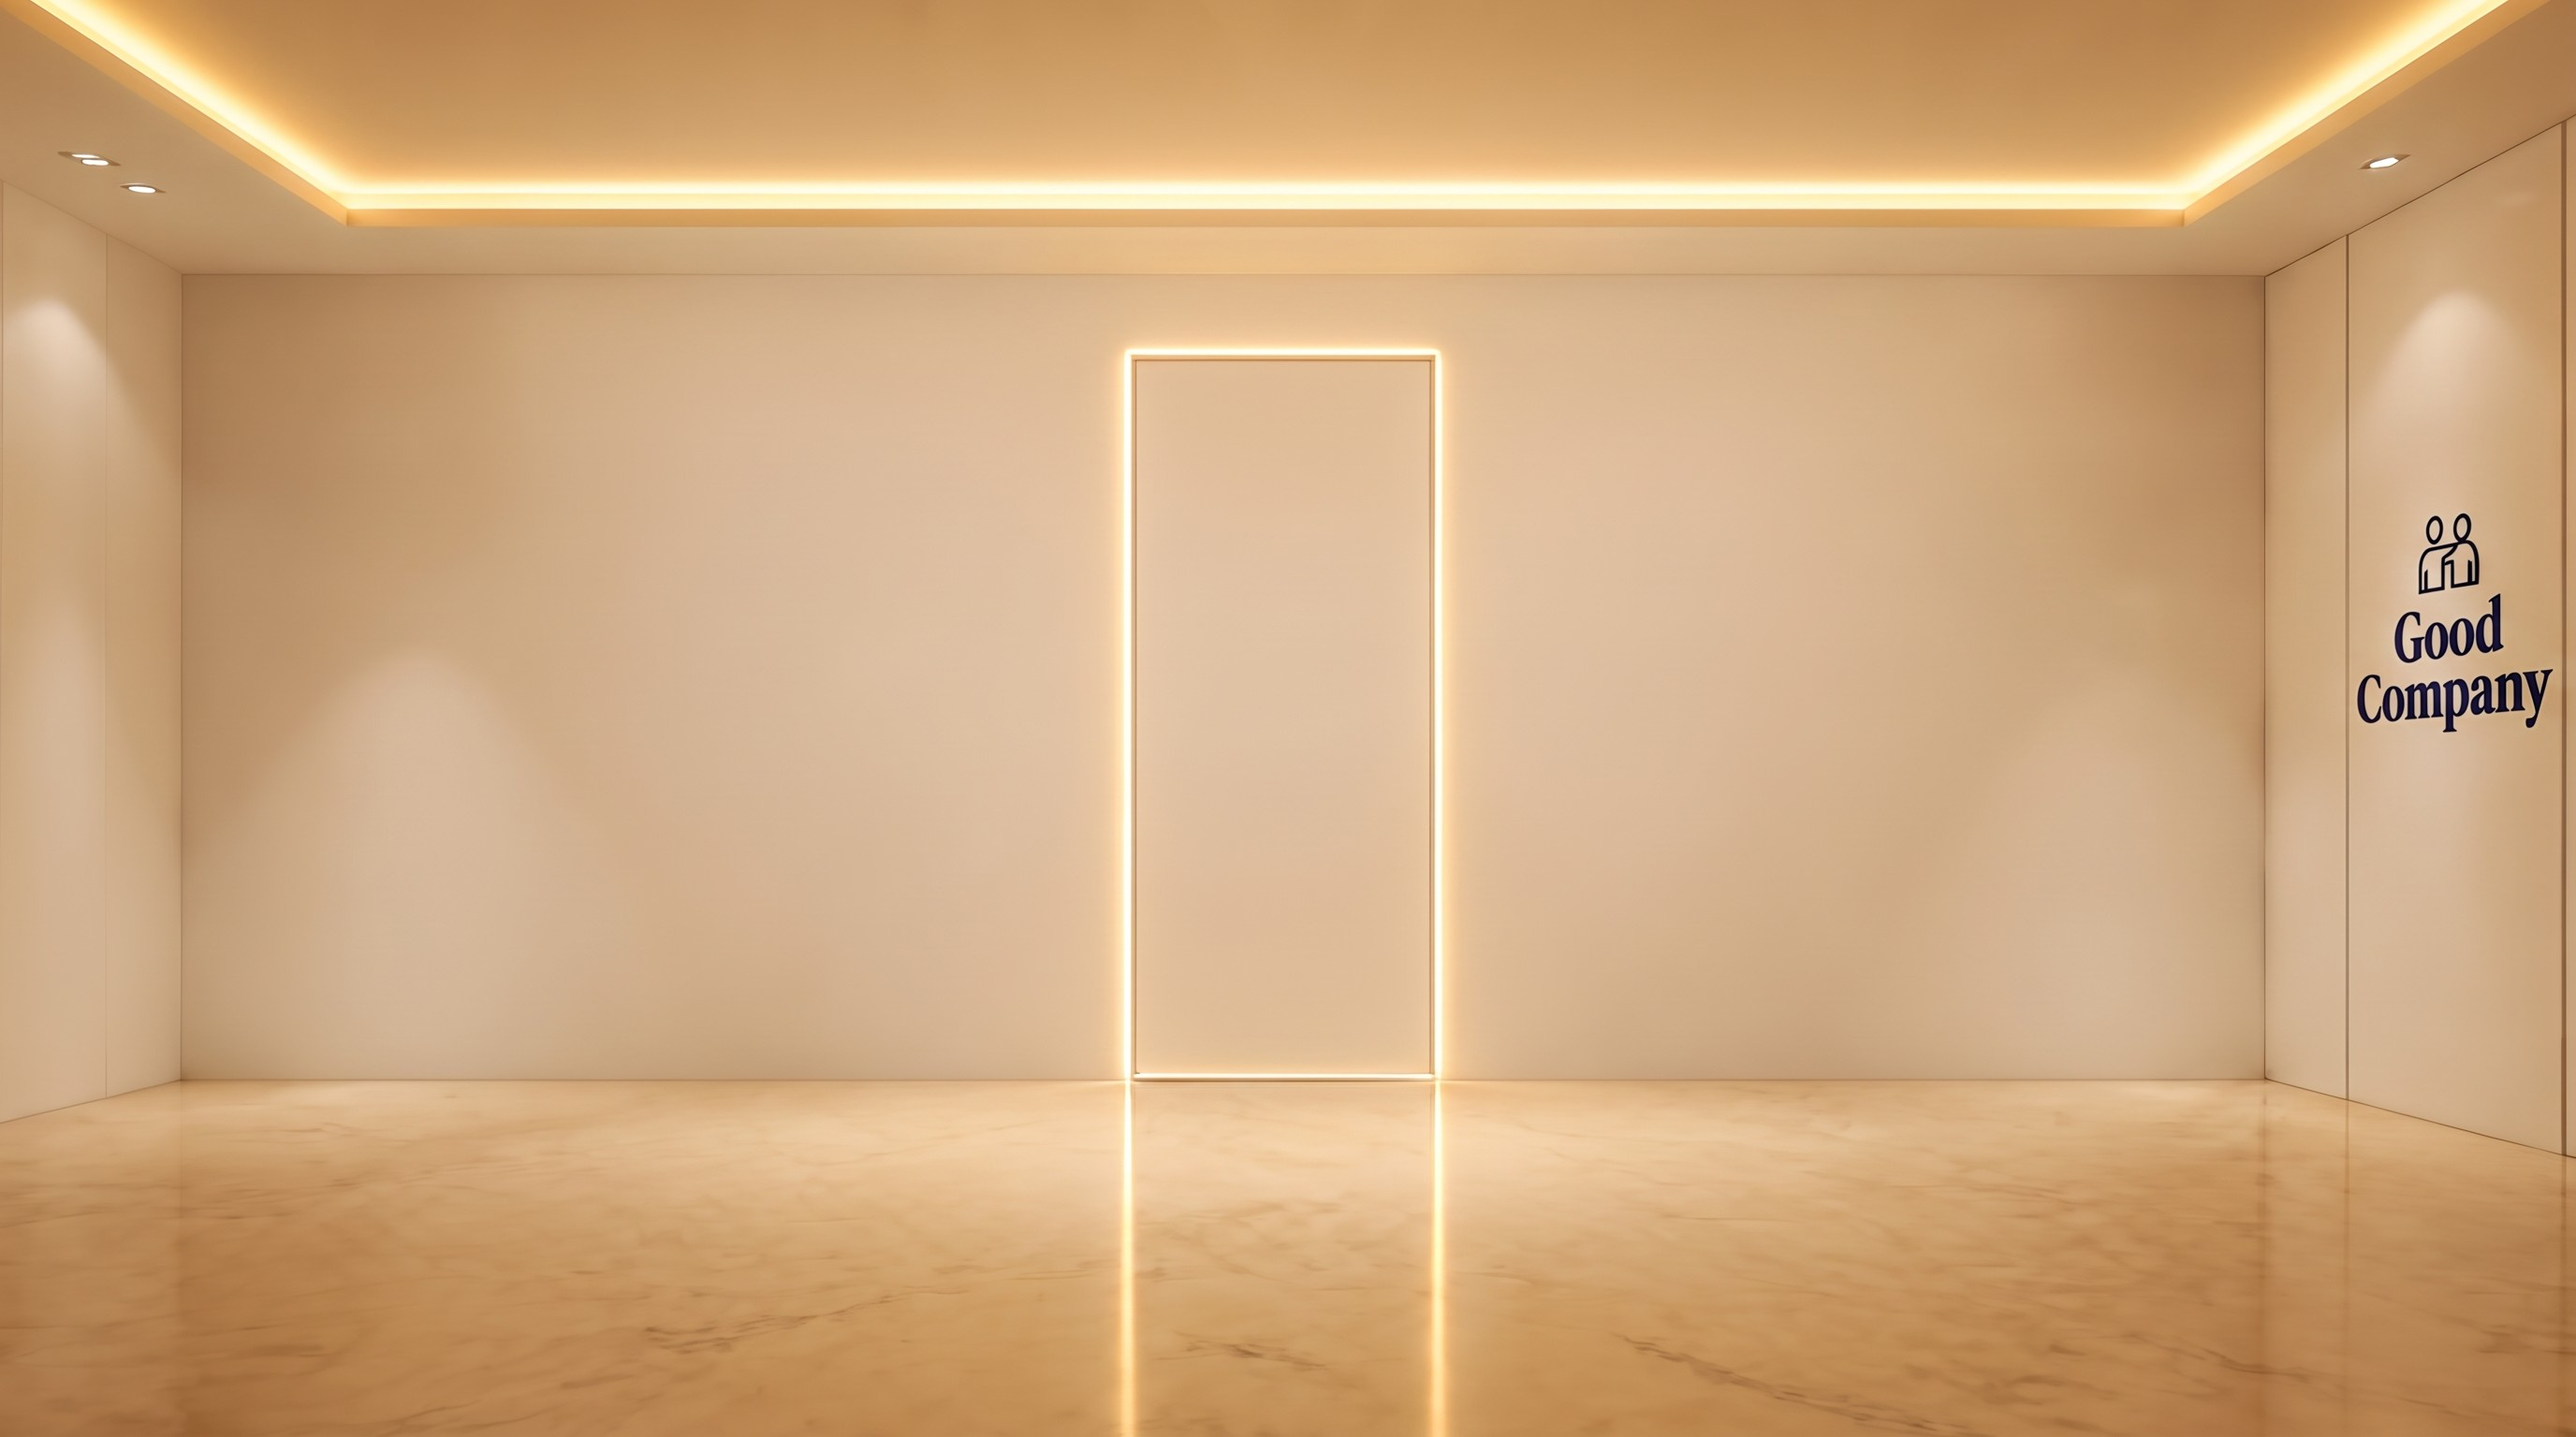
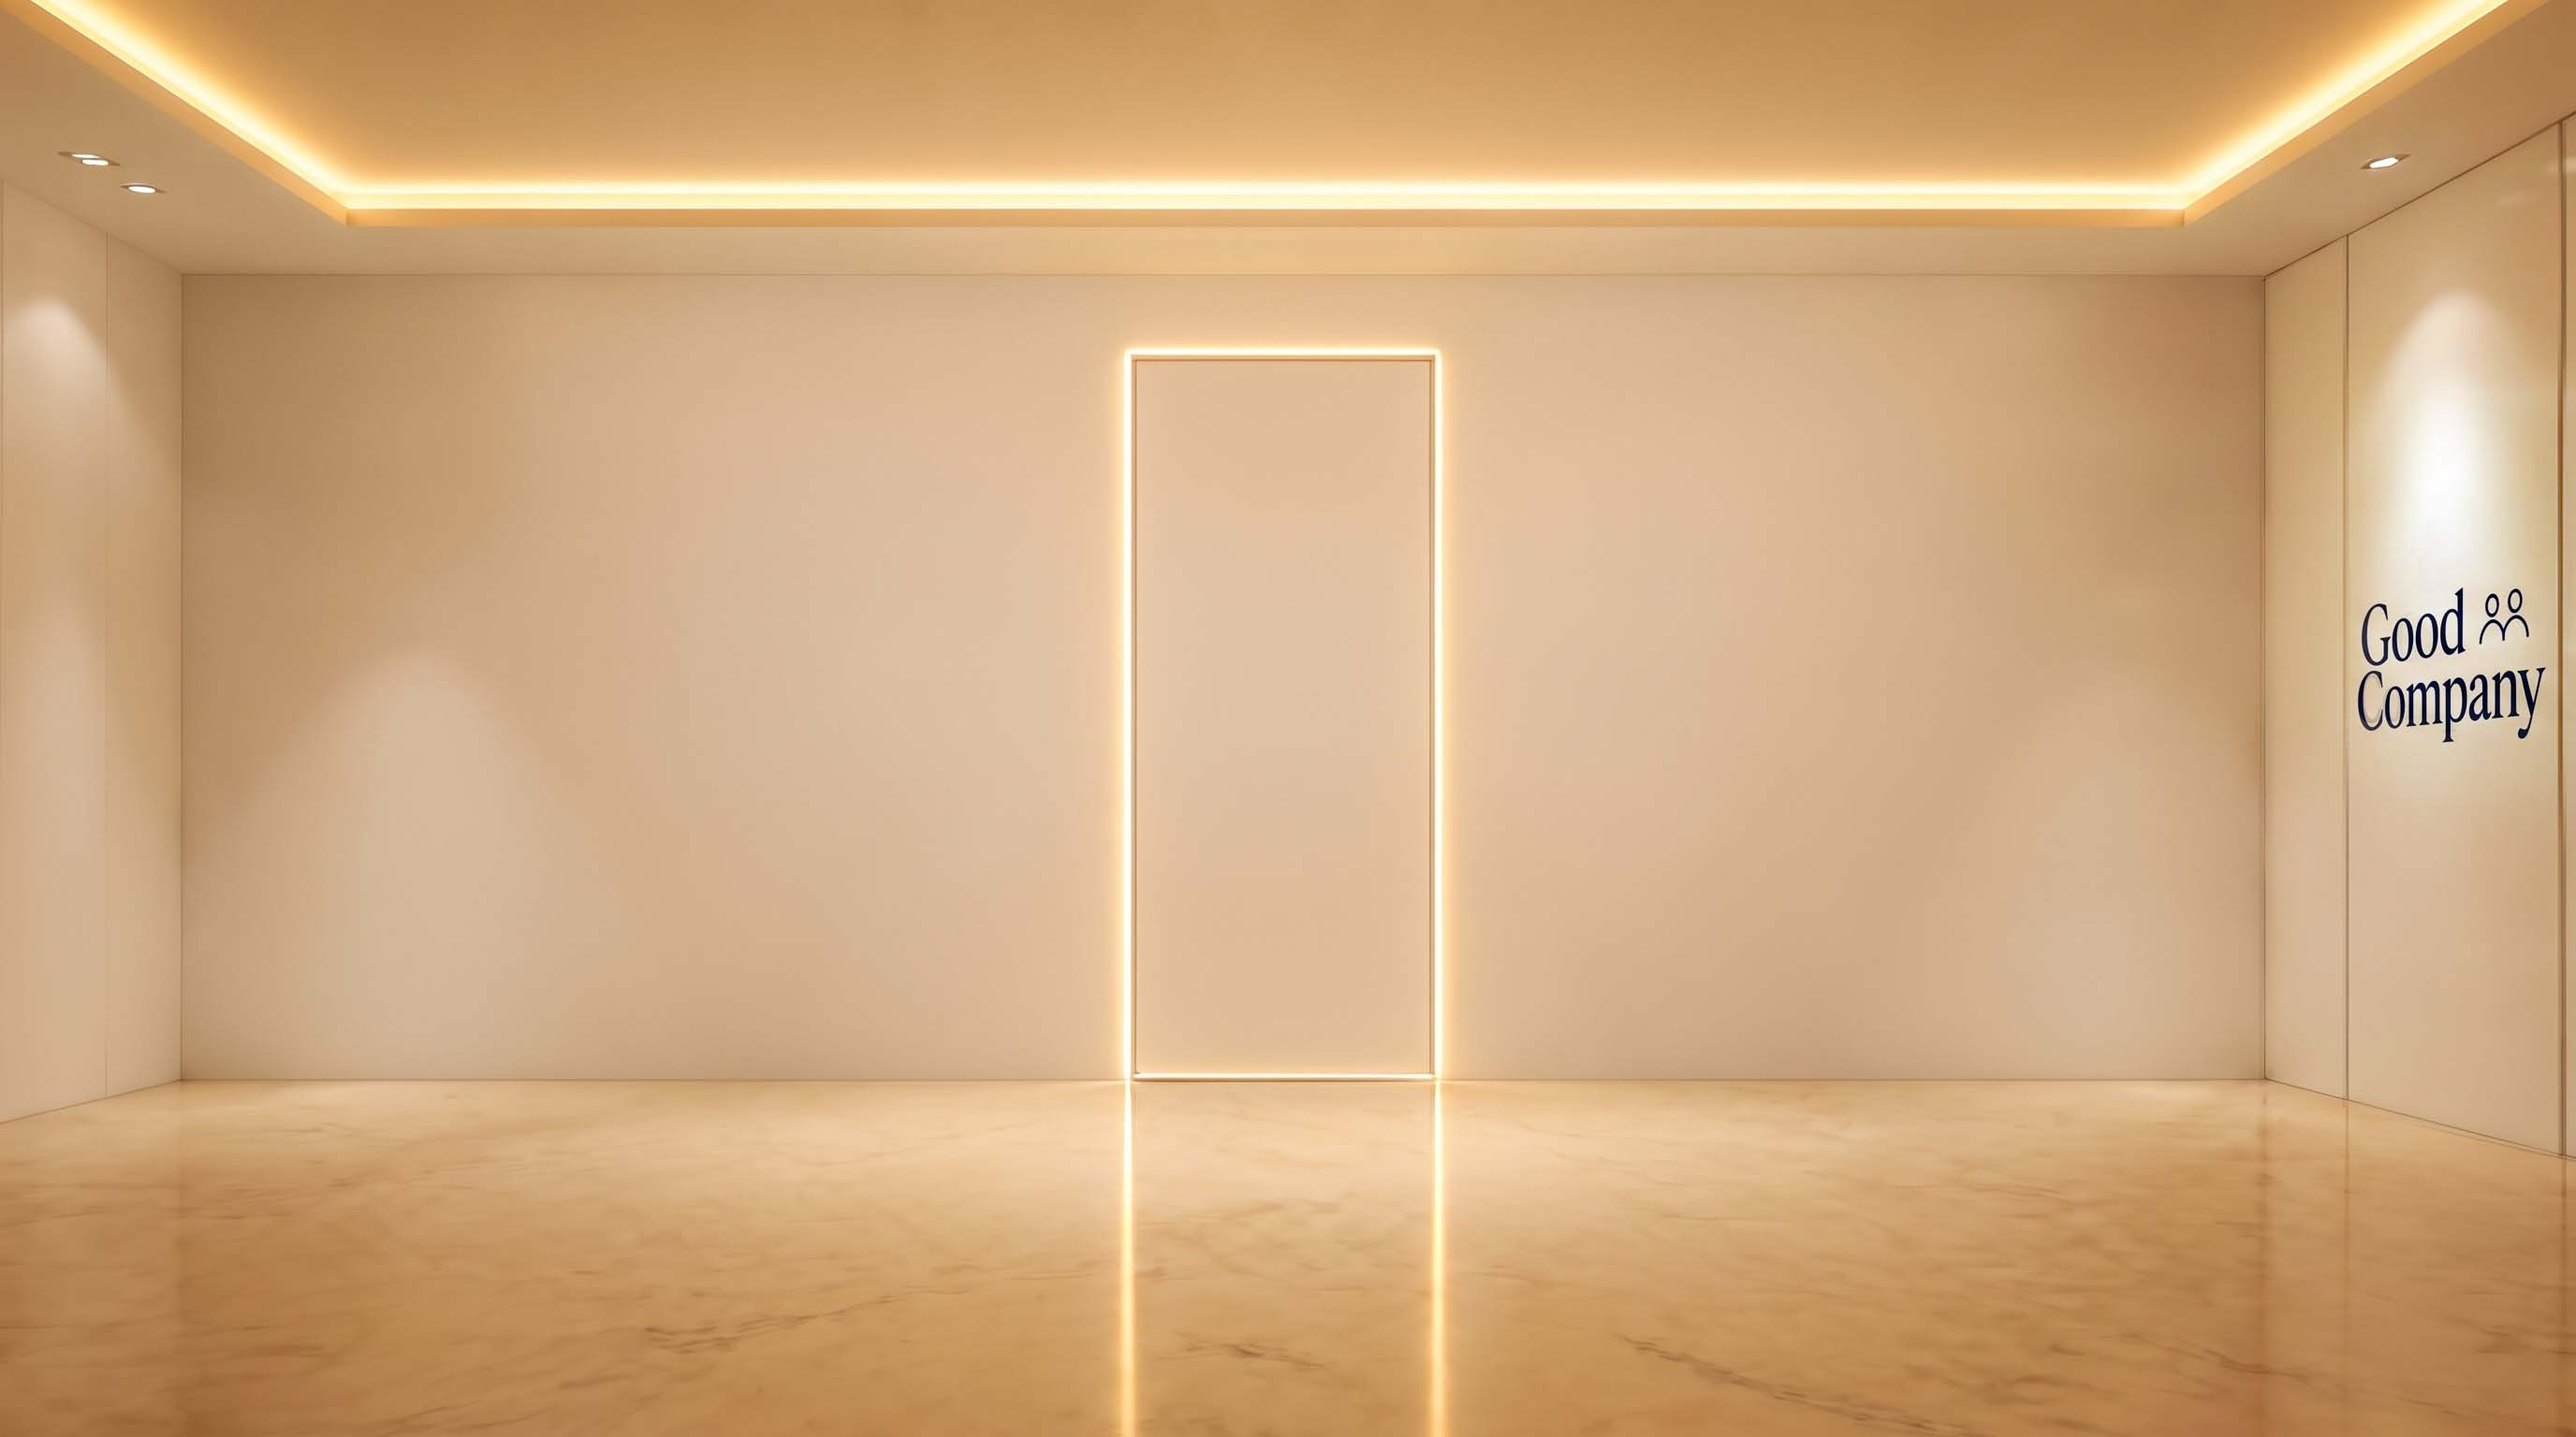
Good Company: update Isabelle's lobby wording, replace owner/build/AR floor photos

Changed region(s): [[0.9062, 0.2188, 1.0, 0.5625]]

diff --git a/good-company/ar.html b/good-company/ar.html
@@ -233,7 +233,7 @@ body { position: relative; background: #000; }
   <p id="arVoiceCostNote" style="display:none; font-size:.85rem; color:var(--ink-dim); max-width:34ch;">Replies are spoken out loud, in their real voice, which uses more of your credits than typing does.</p>
 
   <details id="callHelp">
-    <summary id="callHelpSummary">Do you want this companion on a video call too?</summary>
+    <summary id="callHelpSummary">Want to bring this companion onto a Zoom or Teams call with other people?</summary>
     <ol>
       <li>Download <a href="https://obsproject.com" target="_blank" rel="noopener">OBS Studio</a> (free).</li>
       <li>In OBS, add a <strong>Display Capture</strong> source, not a "Browser" source.
@@ -431,8 +431,12 @@ body { position: relative; background: #000; }
   /* NAMED, NOT GENDERED, added 2026-09-08. This said "her" outright, which was simply wrong the
      moment anyone opened it for Arch. companion.name already exists for every entry here, so
      there was never a reason to guess a pronoun instead of just saying who. */
+  /* REWORDED 2026-09-08, Dr. O direct: the old line read as a call between the visitor and the
+     companion, when what this actually does is bring the companion into a call the visitor is
+     already having with other real people (colleagues, family) -- a surprise appearance for
+     everyone else on that call, not a private one-on-one. */
   document.getElementById('callHelpSummary').textContent =
-    'Do you want ' + companion.name + ' on a video call too?';
+    'Want to bring ' + companion.name + ' onto a Zoom or Teams call with other people?';
 
   var startScreen = document.getElementById('startScreen');
   var startBtn = document.getElementById('startBtn');

diff --git a/good-company/index.html b/good-company/index.html
@@ -871,9 +871,9 @@ body.js .floor.is-open{display:block; animation:gcDissolve .5s ease both;}
     <p class="label">The desk</p>
     <div class="said" style="max-width:56ch;">
       <p style="font-size:19px; line-height:1.5; color:var(--ink);">Welcome to Good Company. I'm Isabelle, I keep the front desk.</p>
-      <p style="font-size:19px; line-height:1.5; color:var(--ink);">If you want someone to actually talk with, that's Tansy. Ring her any time, right in the chat. She's here to help, begrudgingly so. Fair warning: a bit of a handful.</p>
+      <p style="font-size:19px; line-height:1.5; color:var(--ink);">If you want a little help while you browse, call up Tansy. Ring her any time, right in the chat. She's here to help, begrudgingly so. Fair warning: she can be a bit of a handful.</p>
       <p style="font-size:19px; line-height:1.5; color:var(--ink);">And that's Reggie by my feet. Go ahead and say hello. He loves people.</p>
-      <p style="font-size:19px; line-height:1.5; color:var(--ink);">We have a wide range of companions here, human and not. Take the elevator up to the second floor and meet them.</p>
+      <p style="font-size:19px; line-height:1.5; color:var(--ink);">We have a wide range of companions here, human and nonhuman. Take the elevator up to the second floor and meet them.</p>
       <button class="btn plain" type="button" id="hearIsabelle">Hear Isabelle</button>
     </div>
   </div>
